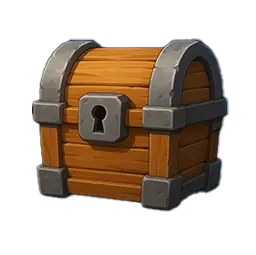
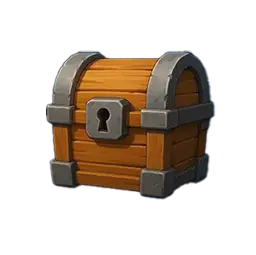
Изменил сундуки

Changed region(s): [[0.125, 0.1373, 0.9062, 0.851]]

diff --git a/app/constants/storageConstants.ts b/app/constants/storageConstants.ts
@@ -7,7 +7,7 @@
 export const CHEST_IMAGES = {
   LEVEL1: '/images/merge/Chests/levels/common.webp',
   LEVEL2: '/images/merge/Chests/levels/uncommon.webp',
-  LEVEL3: '/images/merge/Chests/levels/epic.webp',
+  LEVEL3: '/images/merge/Chests/levels/rare.webp',
   LEVEL1_OPEN: '/images/merge/Chests/levels/level1open.webp',
   LEVEL2_OPEN: '/images/merge/Chests/levels/level2open.webp',
   LEVEL3_OPEN: '/images/merge/Chests/levels/level3open.webp',
